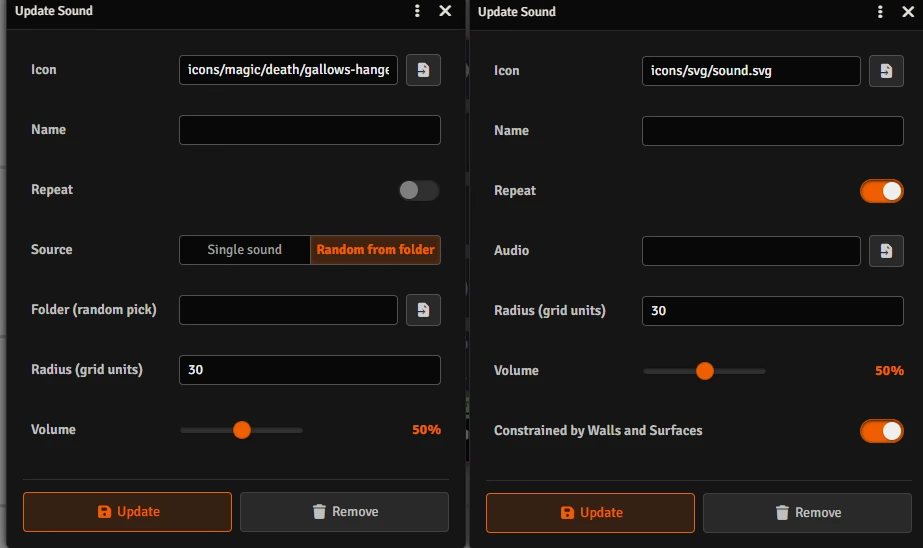
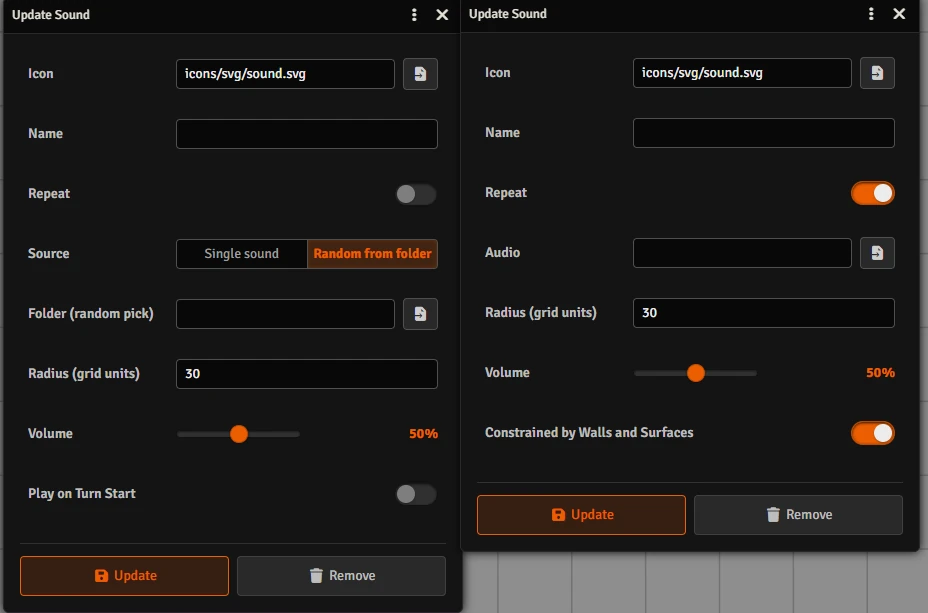
0.0.3

diff --git a/README.md b/README.md
@@ -39,6 +39,12 @@ Use single sounds for:
 
 **Folder mode** is available for single sounds only: instead of picking one specific file, you point the sound at a folder and the module picks a random audio file from it each time the tile is clicked.
 
+### Play on Turn Start
+
+Any single sound can be marked as **Play on Turn Start**. When the actor's turn begins in an active combat encounter, the module automatically triggers that sound — no manual click required. Multiple sounds can have this option enabled simultaneously; all of them will play at the start of the turn.
+
+The sound only fires if the actor is a combatant in a started combat. It will not trigger outside of combat or before the GM clicks the Start Combat button.
+
 ---
 
 ## Setting Up Sounds
@@ -55,6 +61,7 @@ Use single sounds for:
    - **Radius** — how far the sound travels, in grid units.
    - **Walls** — whether walls block the sound (repeat mode only).
    - **Repeat** — toggle this on for a looping ambient sound, leave it off for a one-shot.
+   - **Play on Turn Start** — toggle this on to automatically play the sound when this actor's turn begins in combat (single sounds only).
 5. Save the form. The tile appears in the soundboard immediately.
 
 Sounds configured on an **Actor** are shared across all tokens linked to that actor. Sounds configured directly on an **unlinked token** belong only to that token.
